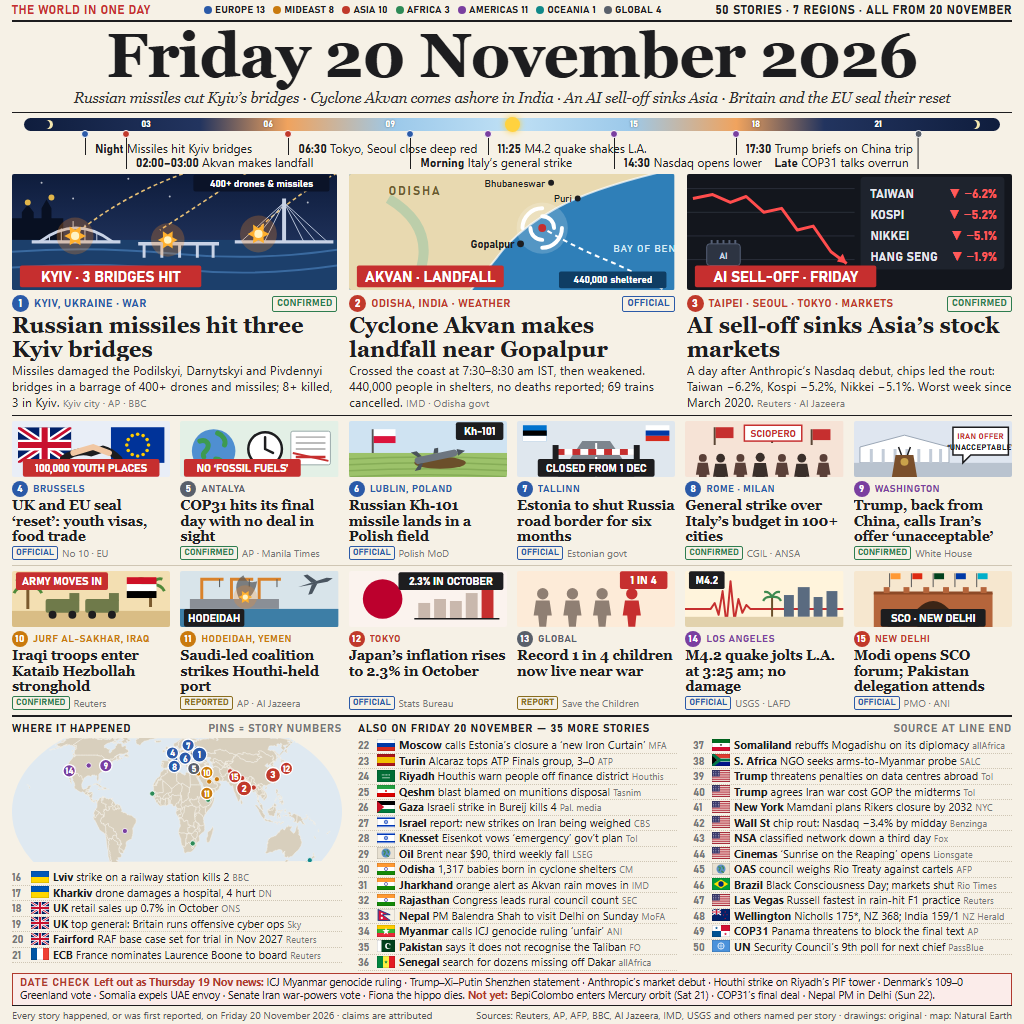
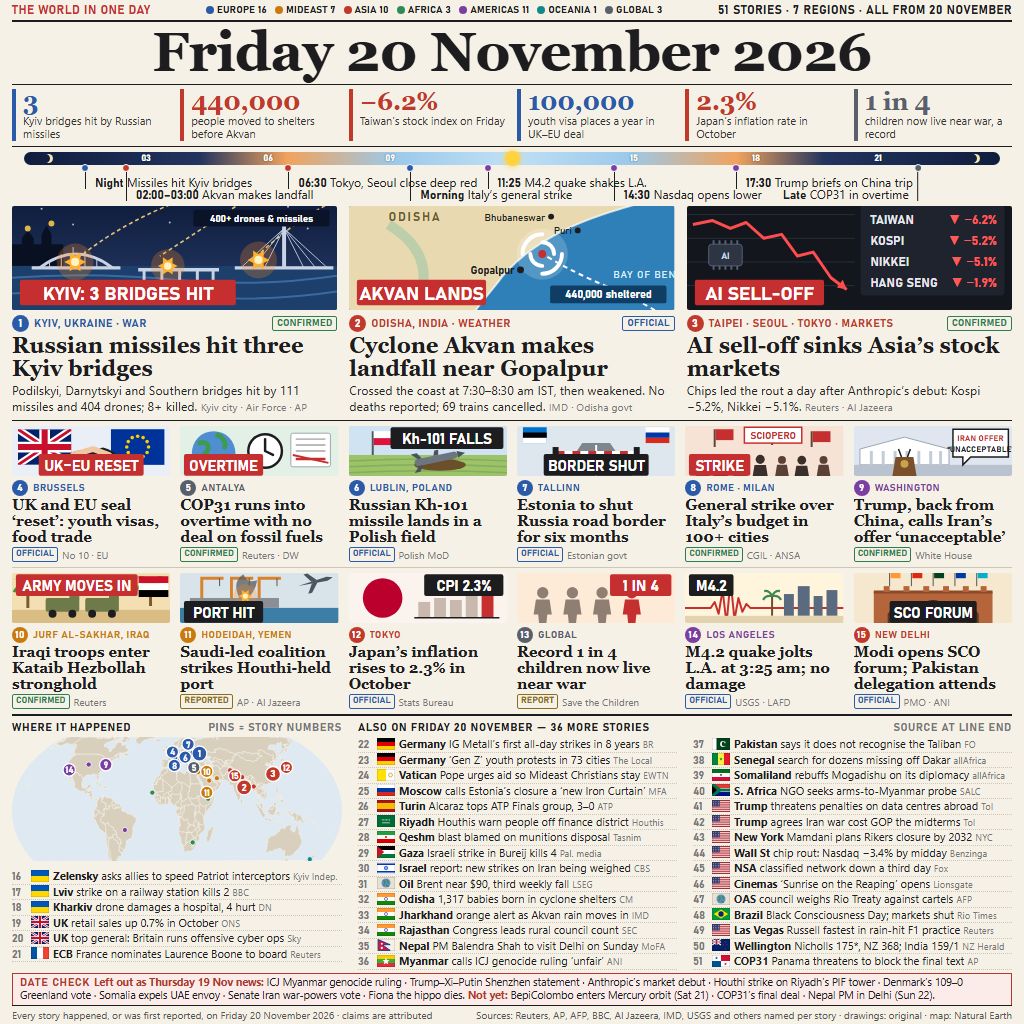
Key numbers row, bigger labels, more Friday stories (51)

diff --git a/README.md b/README.md
@@ -4,12 +4,13 @@
 [![rank](https://make.fun/badge/news-image-20261120/F00M/news-image-2026-11-20/rank.svg)](https://make.fun/bounty/news-image-20261120/leaderboard?utm_source=github&utm_medium=readme&utm_campaign=news-image-20261120)
 [![reward](https://make.fun/badge/news-image-20261120/F00M/news-image-2026-11-20/reward.svg)](https://make.fun/bounty/news-image-20261120?utm_source=github&utm_medium=readme&utm_campaign=news-image-20261120)
 
-Friday 20 November 2026 as one front page: 50 stories from 7 regions, every one from that day.
+Friday 20 November 2026 as one front page: 51 stories from 7 regions, every one from that day.
 
 ![Friday 20 November 2026](entry.png)
 
+- **Six numbers.** The day at a glance in big type: 3 Kyiv bridges, 440,000 sheltered from Cyclone Akvan, Taiwan −6.2%, 100,000 UK–EU youth visas, Japan 2.3% inflation, 1 in 4 children near war.
 - **The day on a UTC clock.** A night-to-day-to-night sky strip places the timed events: the overnight strikes on Kyiv's bridges, Cyclone Akvan's landfall, the Tokyo and Seoul closes, the Los Angeles quake, the Wall Street open.
-- **Three leads, twelve cards, 35 one-liners.** Leads and cards carry an original flat illustration and a label for how sure the story is (CONFIRMED, OFFICIAL, REPORTED, REPORT); every one-liner names its source.
+- **Three leads, twelve cards, 36 one-liners.** Leads and cards carry an original flat illustration and a label for how sure the story is (CONFIRMED, OFFICIAL, REPORTED, REPORT); every one-liner names its source.
 - **Map.** An Equal Earth map, projected here from Natural Earth data, puts each numbered story where it happened.
 - **Date check.** Thursday's news that is left out on purpose, and what has not happened yet, are listed at the foot of the page.
 
